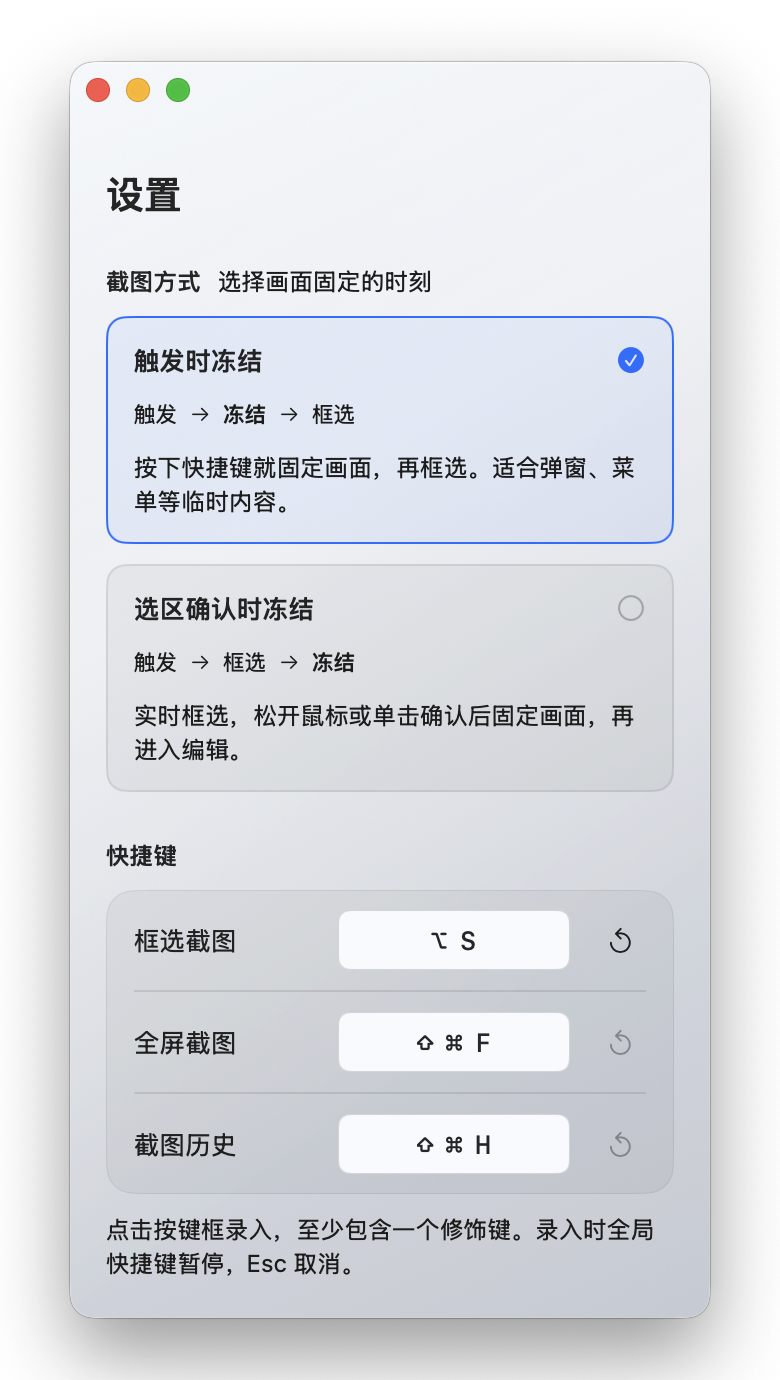
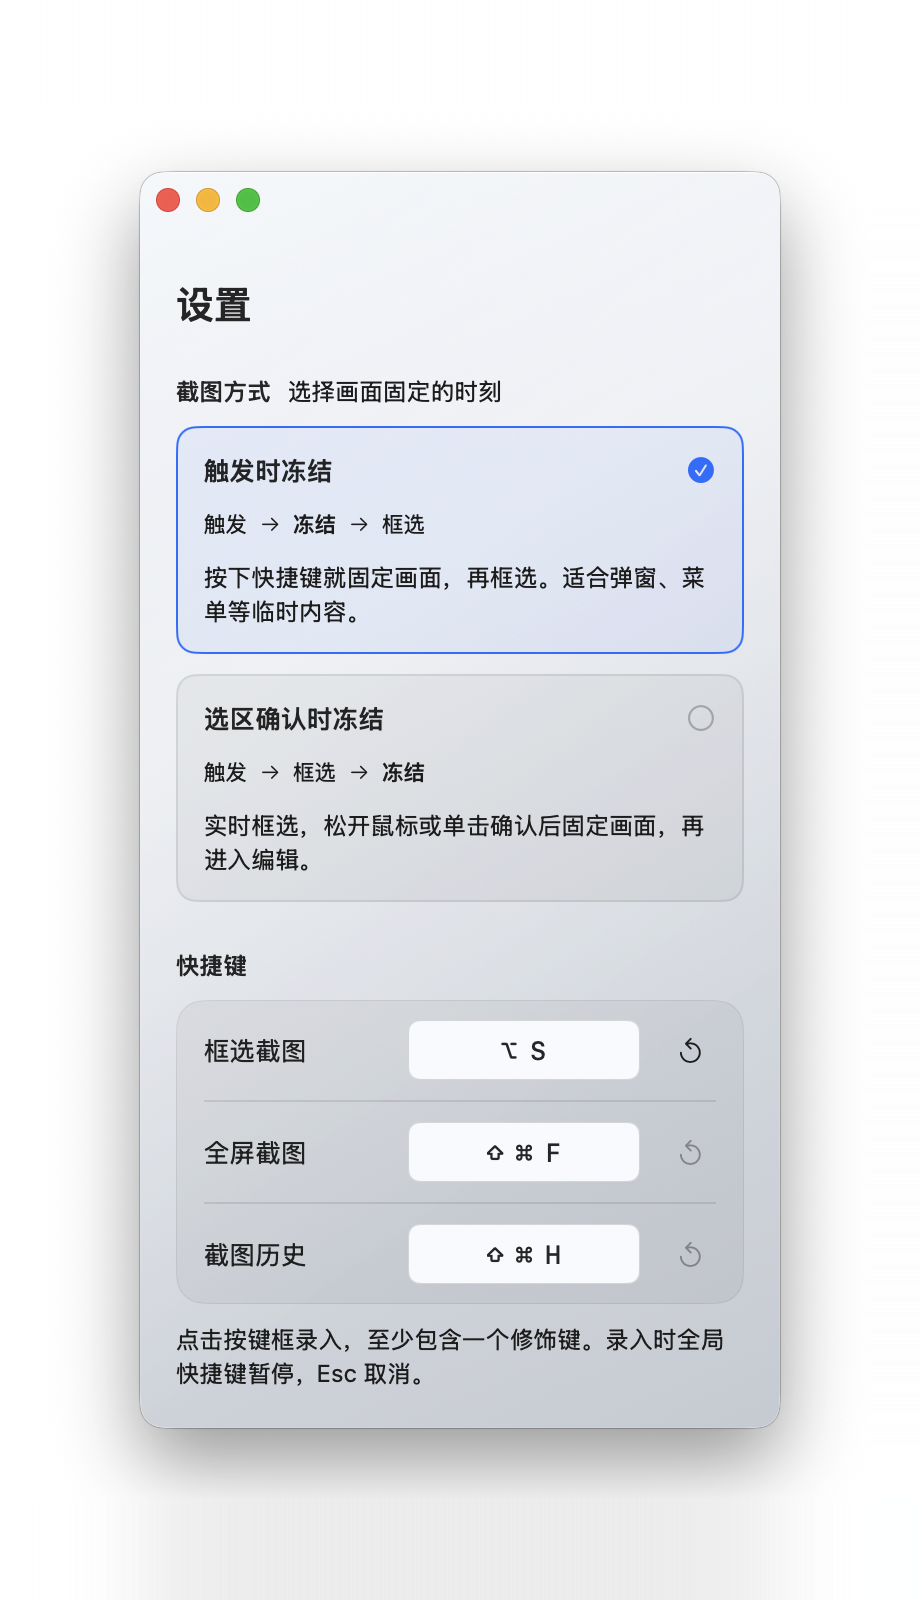
Preserve full screenshot shadows using expanded white canvases

diff --git a/README.md b/README.md
@@ -77,7 +77,7 @@ SnapX 是一款常驻 Mac 菜单栏的截图工具。框选之后直接在原位
   <img src="docs/images/settings-dark.png" width="320" alt="当前深色设置界面：相同布局与蓝色强调色">
 </p>
 
-*以上为已安装 SnapX 的实际窗口截图，仅裁剪外部留白并统一尺寸、居中对齐，界面与原有阴影未作修改。图中的 ⌥S 为自定义快捷键，默认仍为 ⌘⇧S。*
+*以上为已安装 SnapX 的实际窗口截图，完整保留原图及阴影，仅扩展白色画布以统一尺寸、居中对齐。图中的 ⌥S 为自定义快捷键，默认仍为 ⌘⇧S。*
 
 支持跟随系统、浅色和深色外观，切换时平滑过渡。设置页使用细浮动滚动条，快捷键、登录时启动和权限入口集中在一处。
 
